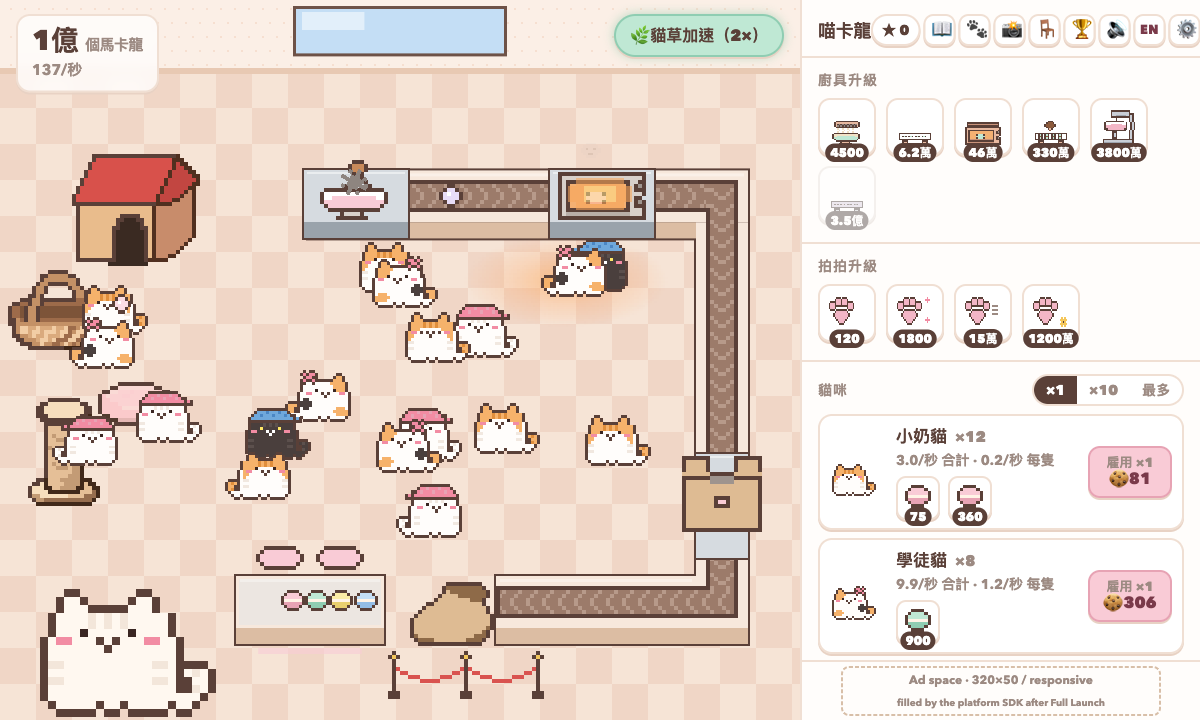
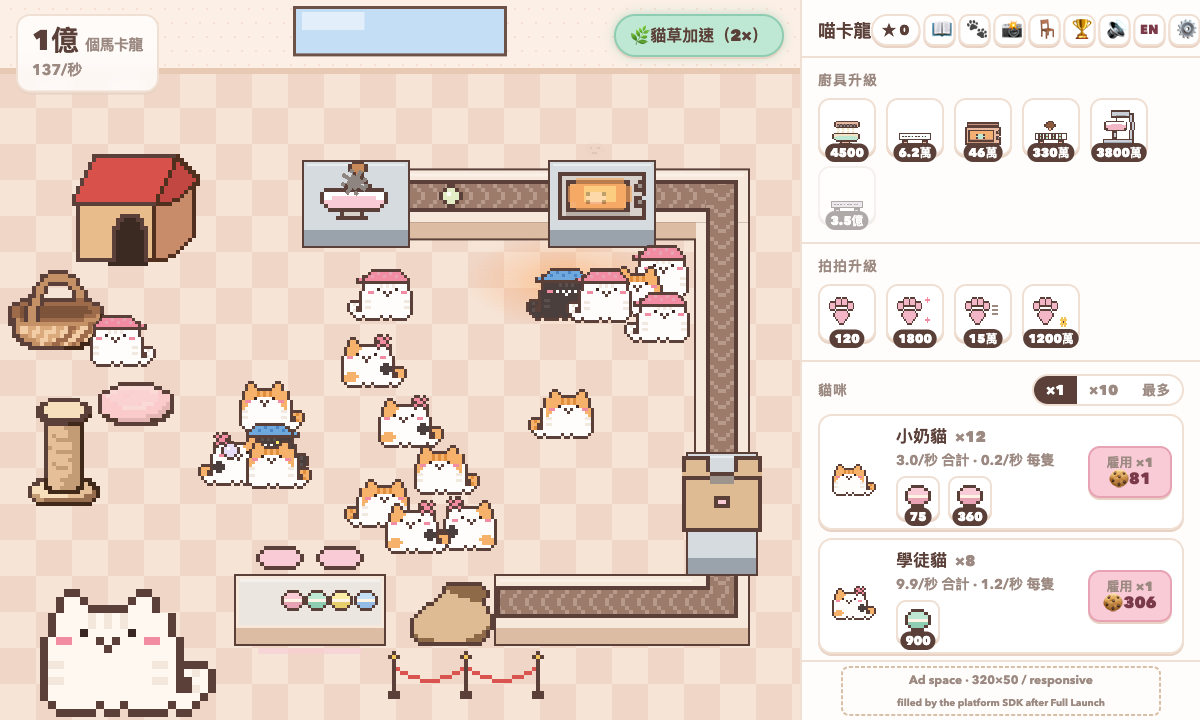
Meowcaron v64: steel tables stand on the floor, a touch deeper than the rack; plain courier line
Claude-Session: https://claude.ai/code/session_01SWmRBAf7A7jFWkfoK9UZz8

diff --git a/src/content/zh.ts b/src/content/zh.ts
@@ -37,7 +37,7 @@ export const JOURNAL_ZH: Record<string, { title: string; story: string[]; likes:
   kitten: { title: '實習助手（無薪，用碎屑支付）', story: ['小奶貓是裝在紙箱裡送來的。那些紙箱本來是裝馬卡龍的。此事仍有爭議。', '牠們拍麵團、追擠花袋，偶爾在攪拌機裡睡著。產量普通，士氣極高。'], likes: '烘焙紙的沙沙聲', flavour: '剛掉到地上的那一顆' },
   apprentice: { title: '學徒，九年計畫的第一年', story: ['戴蝴蝶結是為了看起來認真。讀了半本食譜，堅稱另一半「基本上一樣」。', '曾經把糖換成鹽烤了一批。結果照樣賣光，大家因此學到錯誤的教訓。'], likes: '被誤叫成「主廚」', flavour: '薄荷，「像重新開始」' },
   baker: { title: '外殼專家', story: ['閉著眼睛也能擠出完美的殼。字面意思，因為牠通常邊做邊睡。', '拒絕透露秘訣。根據小奶貓的說法，秘訣是「當一隻烘焙貓」。'], likes: '乾淨的工作台和安靜', flavour: '檸檬，酸到可以叫醒人' },
-  courier: { title: '夜間外送，風雨無阻', story: ['凌晨三點跨城送貨，大多送給兩點五十九分下單的其他貓。', '藍頭巾是為了空氣動力學。牠從沒解釋過什麼是空氣動力學，也沒人敢問。'], likes: '濕路面的反光', flavour: '藍莓，在屋頂上吃' },
+  courier: { title: '夜間外送，風雨無阻', story: ['凌晨三點跨城送貨，大多送給兩點五十九分下單的其他貓。', '藍頭巾是收到的第一份小費，之後每天都戴著。淋雨會濕，牠不在乎。'], likes: '濕路面的反光', flavour: '藍莓，在屋頂上吃' },
   patissier: { title: '甜點師，巴黎受訓（據說）', story: ['帶著高帽、一箱迷你打蛋器和對你甘納許的意見來的。', '帽子從沒拿下來過。員工懷疑裡面有第二隻更小的貓在真正掌廚。'], likes: '糾正別人「馬卡龍」的發音', flavour: '薰衣草，「當然」' },
   manager: { title: '營運經理', story: ['排午睡班表。全部的午睡。有一張表，表上有一個午睡。', '戴著沒有鏡片的眼鏡，因為「這樣試算表會聽話」。牠來的那週產量翻倍，所以沒人反駁。'], likes: '分顏色的便利貼', flavour: '蜜桃，歸檔在「第三季重點」' },
   influencer: { title: '230 萬粉絲，1 間店', story: ['一張照片，一萬張訂單。墨鏡在室內、冷藏庫、顯然連洗澡都戴著。', '從沒烤過任何東西，嚐過所有東西，每顆馬卡龍都評「超愛」加愛心。'], likes: '黃金時刻，以及有人跟牠講黃金時刻', flavour: '玫瑰，為了畫面' },

diff --git a/src/game/scenes/CafeScene.ts b/src/game/scenes/CafeScene.ts
@@ -308,10 +308,11 @@ export class CafeScene extends Phaser.Scene {
     const sc = this.machineScale;
     const topBase = topCounter.y + topCounter.h - 2;
     const cellW = 26 * sc;
+    const lip = 2 * this.propScale; // a steel table standing on the floor, a touch deeper than the conveyor rack on both sides
     this.drawSteelCells([
-      { x: this.stations[0].x - cellW / 2, y: topCounter.y, w: cellW, h: depth, front: this.counterFront, depth: back.depth + 0.7 },
-      { x: this.stations[2].x - cellW / 2, y: topCounter.y, w: cellW, h: depth, front: this.counterFront, depth: back.depth + 0.7 },
-      { x: rightCounter.x, y: this.stations[3].y - cellW / 2, w: depth, h: cellW, front: 0, depth: down.depth + 0.7 },
+      { x: this.stations[0].x - cellW / 2, y: topCounter.y - lip, w: cellW, h: depth + 2 * lip, front: this.counterFront, depth: back.depth + 0.7 },
+      { x: this.stations[2].x - cellW / 2, y: topCounter.y - lip, w: cellW, h: depth + 2 * lip, front: this.counterFront, depth: back.depth + 0.7 },
+      { x: rightCounter.x - lip, y: this.stations[3].y - cellW / 2, w: depth + 2 * lip, h: cellW, front: this.counterFront, depth: down.depth + 0.7 },
     ]);
     this.props.forEach((p, i) => {
       const st = this.stations[i];

diff --git a/src/content/journal.ts b/src/content/journal.ts
@@ -47,7 +47,7 @@ export const JOURNAL: JournalEntry[] = [
     id: 'courier', pet: 'lie', title: 'Night Delivery, Rain or Shine',
     story: [
       'Delivers across town at 3 a.m., mostly to other cats who ordered at 2:59 a.m.',
-      'The blue bandana is for aerodynamics. The courier has never explained what aerodynamics are, and nobody has dared to ask.',
+      'The blue bandana was its first tip. It has worn it every day since, rain or not.',
     ],
     likes: 'Wet pavement reflections', flavour: 'Blueberry, eaten on a rooftop',
   },
